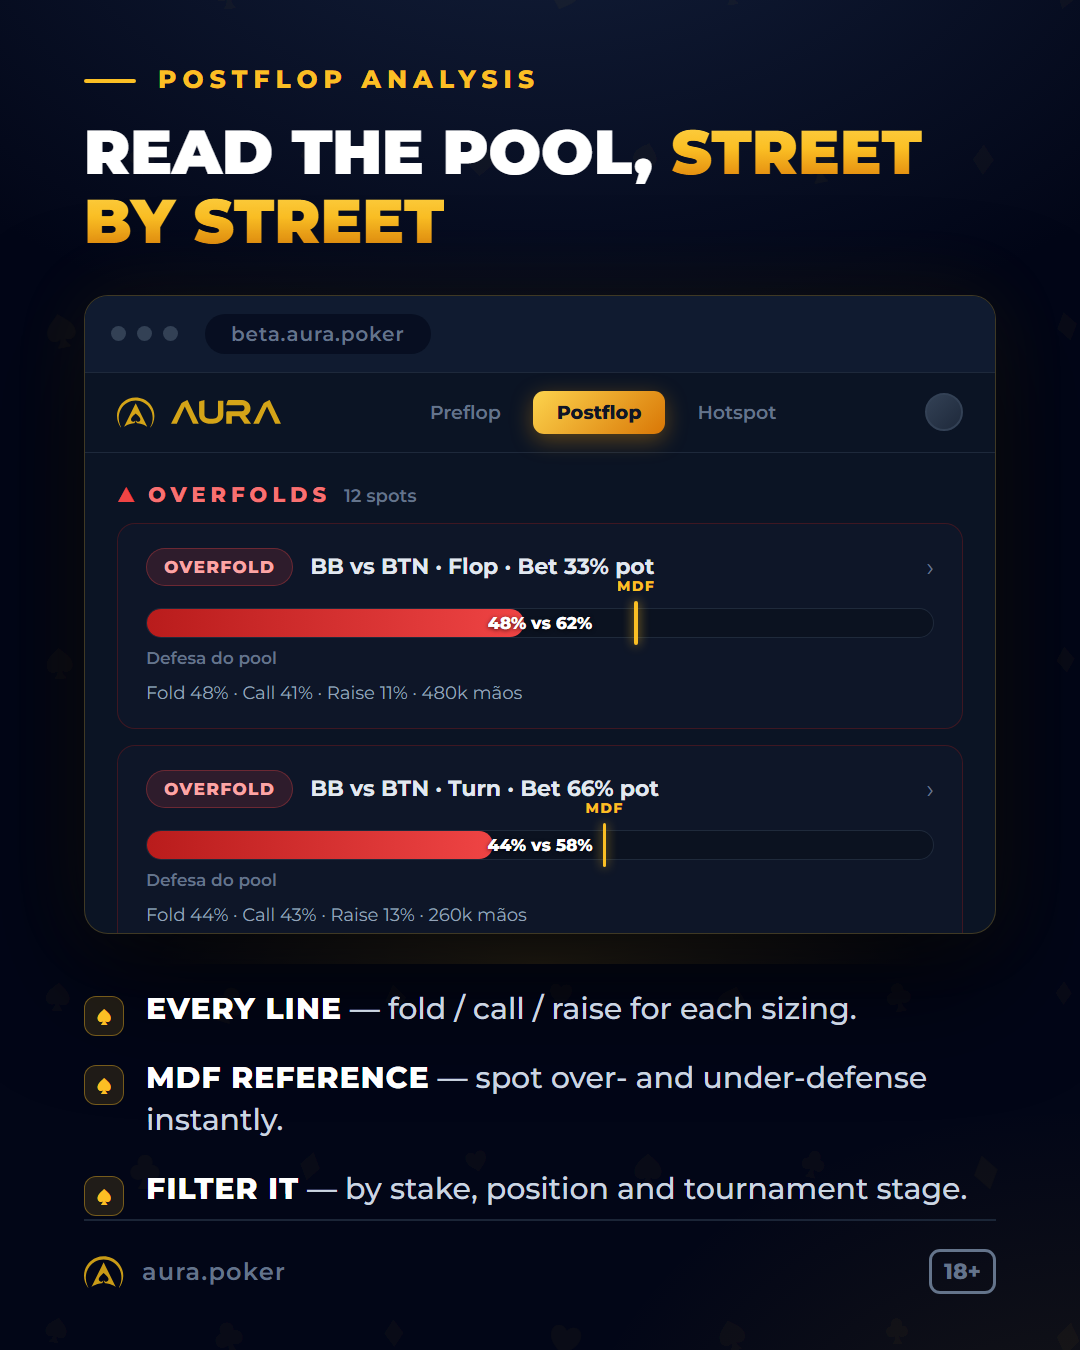
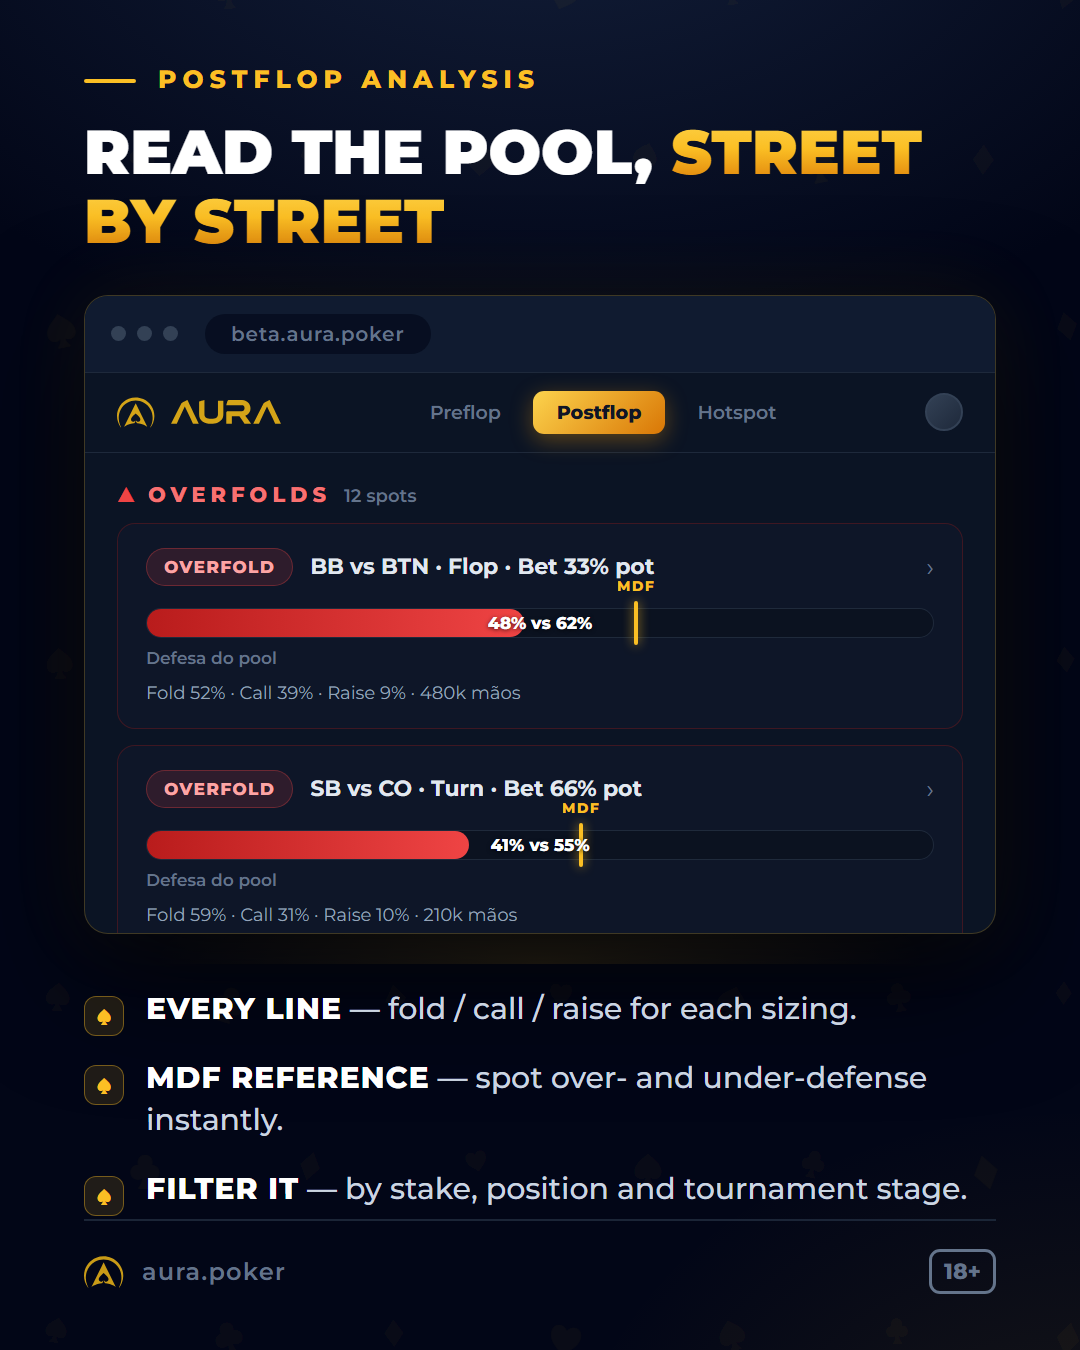
fix(instagram): auditoria QG - encoding typo + alinhamento de spots P3/P4
content/programa-4-semanas-launch.md:120 - removido soft hyphen (U+00AD) invisivel em exploraveis; verificado o arquivo inteiro, nenhum outro caractere invisivel.

deck.js w1-spot-postflop: alinhado com w1-spot-hotspot (mesmos 2 top leaks, vistos por modulos diferentes). Corrigido tambem uma inconsistencia matematica interna que a auditoria nao pegou: o card 1 usava poolPct=48 como defesa do pool (label da barra) mas a legenda dizia Fold 48% - contraditorio (defesa 48% implica fold 52%, nao 48%). Agora Fold/Call/Raise deriva corretamente de poolPct em ambos os cards. Card 2 alinhado ao spot do Hotspot (SB vs CO Turn, 41/55, 210k) em vez do exemplo divergente anterior.

Re-render de w1-p3-spot-hotspot e w1-p4-spot-postflop.

Changed region(s): [[0.1833, 0.56, 0.6111, 0.6844], [0.3361, 0.4978, 0.4889, 0.5289], [0.1833, 0.4978, 0.3056, 0.5289]]

diff --git a/instagram/templates/deck.js b/instagram/templates/deck.js
@@ -114,11 +114,13 @@ window.DECK = {
     screenshotSrc: "",
     frameUrl: "beta.aura.poker",
     activeNav: "Postflop",
+    /* cards alinhados com w1-spot-hotspot (mesmos 2 leaks, lente Postflop):
+       poolPct = defesa do pool (call+raise) → Fold = 100-poolPct, split Call/Raise ilustrativo */
     cards: [
       { badge: "Overfold", title: "BB vs BTN · Flop · Bet 33% pot", poolPct: 48, mdfPct: 62,
-        meta: "Fold 48% · Call 41% · Raise 11% · 480k mãos" },
-      { badge: "Overfold", title: "BB vs BTN · Turn · Bet 66% pot", poolPct: 44, mdfPct: 58,
-        meta: "Fold 44% · Call 43% · Raise 13% · 260k mãos" },
+        meta: "Fold 52% · Call 39% · Raise 9% · 480k mãos" },
+      { badge: "Overfold", title: "SB vs CO · Turn · Bet 66% pot", poolPct: 41, mdfPct: 55,
+        meta: "Fold 59% · Call 31% · Raise 10% · 210k mãos" },
     ],
     bullets: [
       "<b>Every line</b> — fold / call / raise for each sizing.",
